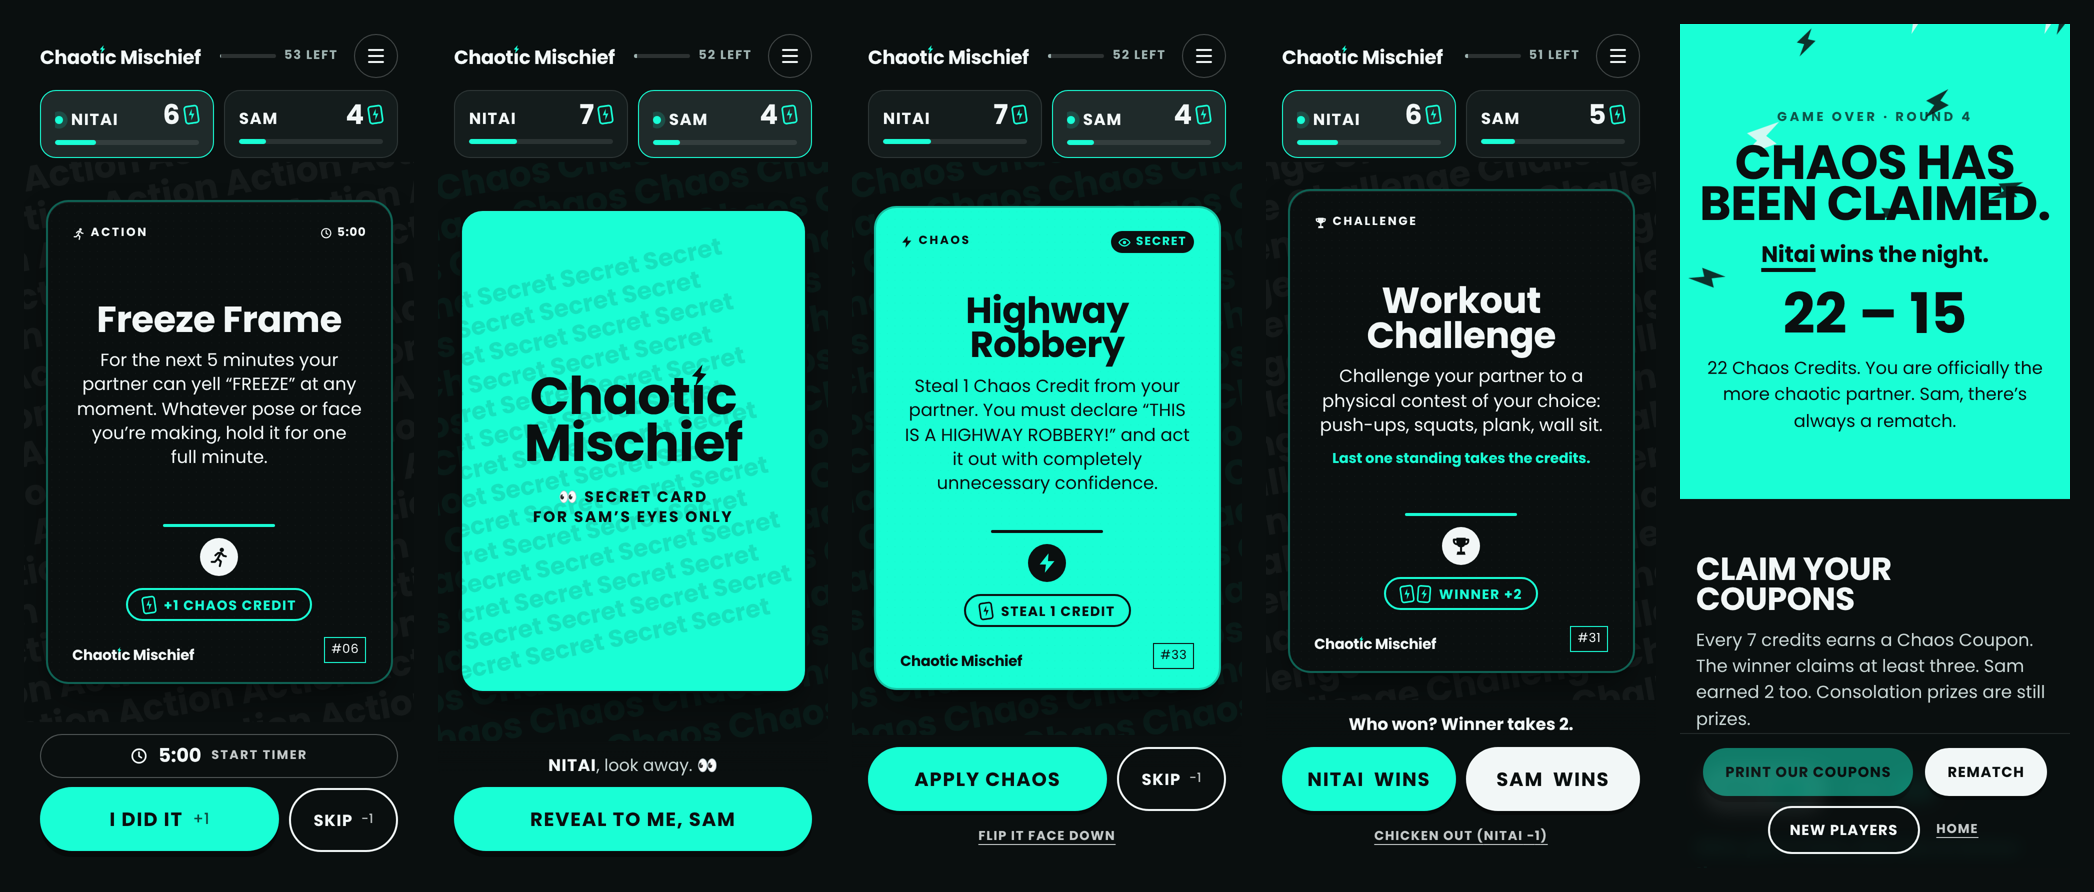
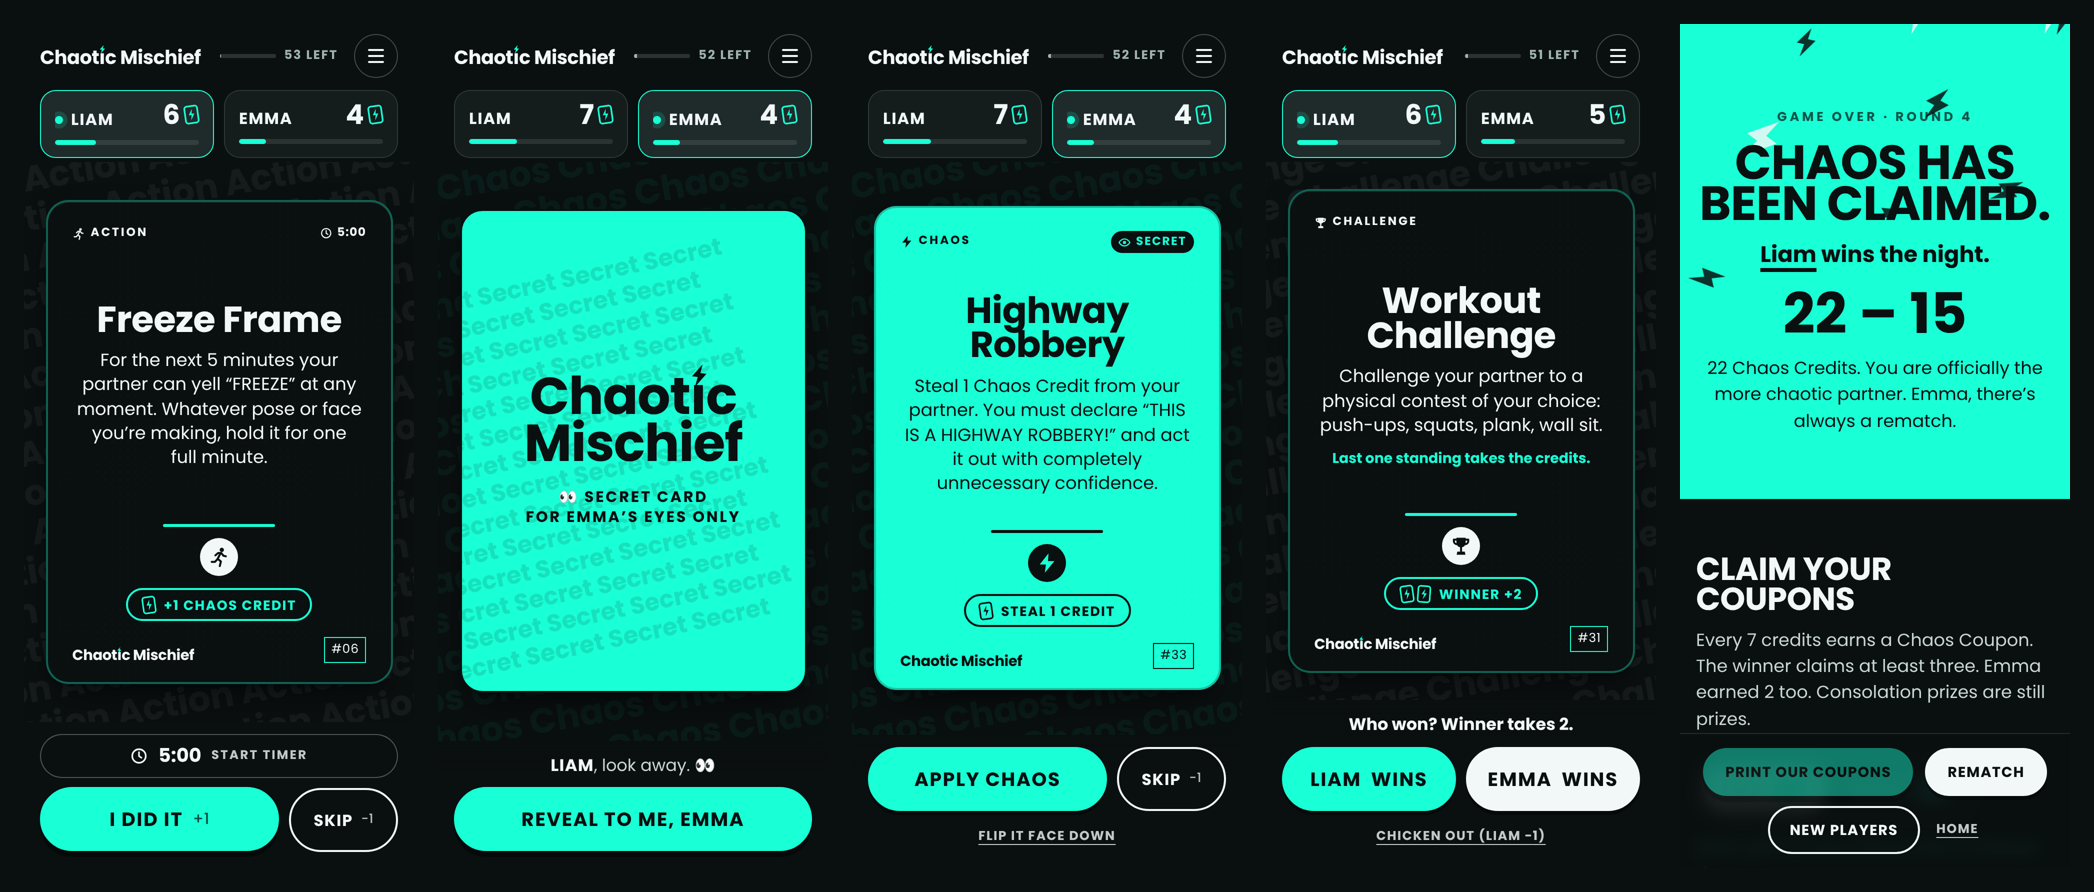
Use Liam and Emma as example names; add play link to README
Claude-Session: https://claude.ai/code/session_01GNPXdCBmPUjH62vrnXT8yM

diff --git a/src/game/rules.test.ts b/src/game/rules.test.ts
@@ -28,7 +28,7 @@ function seeded(seed = 42) {
 /** Start a game whose next draw is exactly `cardId`. */
 function gameWithTopCard(cardId: string, first: PlayerIndex = 0, scores: [number, number] = [0, 0]): GameState {
   const rest = PLAYABLE_IDS.filter((id) => id !== cardId);
-  const g = createGame(['Nitai', 'Sam'], [...rest, cardId], first);
+  const g = createGame(['Liam', 'Emma'], [...rest, cardId], first);
   g.players[0].score = scores[0];
   g.players[1].score = scores[1];
   return g;
@@ -67,9 +67,9 @@ describe('deck data', () => {
 
 describe('setup', () => {
   it('rejects empty and duplicate names', () => {
-    expect(validateNames('  ', 'Sam')).not.toBeNull();
-    expect(validateNames('sam', 'SAM ')).not.toBeNull();
-    expect(validateNames('Nitai', 'Sam')).toBeNull();
+    expect(validateNames('  ', 'Emma')).not.toBeNull();
+    expect(validateNames('emma', 'EMMA ')).not.toBeNull();
+    expect(validateNames('Liam', 'Emma')).toBeNull();
   });
 
   it('shuffles without losing or duplicating cards', () => {

diff --git a/src/pages/SetupPage.tsx b/src/pages/SetupPage.tsx
@@ -63,7 +63,7 @@ export function SetupPage({ onStart }: Props) {
                 value={names[i]}
                 onChange={(e) => setName(i, e.target.value)}
                 maxLength={MAX_NAME_LENGTH}
-                placeholder={i === 0 ? 'Nitai' : 'Your partner'}
+                placeholder={i === 0 ? 'Liam' : 'Emma'}
                 autoComplete="off"
                 autoCapitalize="words"
                 spellCheck={false}

diff --git a/README.md b/README.md
@@ -4,6 +4,8 @@
 
 Draw a card. Cause some problems. First to 21 Chaos Credits wins the night.
 
+**▶ Play it: [nweinberg97.github.io/Chaotic-Mischief](https://nweinberg97.github.io/Chaotic-Mischief/)**
+
 ![Landing page](docs/landing.png)
 
 ---
@@ -59,7 +61,7 @@ It is mobile-first, since most people will play on one phone passed back and for
 
 **First to 21 wins.** If one card pushes both players past 21, the higher score wins, and a tie goes to whoever played the card.
 
-**Secret cards.** When a Chaos, Side Quest or Mischief card is drawn, it lands face down with a *"For Sam's eyes only"* back. The partner looks away and the drawer taps **Reveal to me**. The drawer can flip it back down after reading.
+**Secret cards.** When a Chaos, Side Quest or Mischief card is drawn, it lands face down with a *"For Emma's eyes only"* back. The partner looks away and the drawer taps **Reveal to me**. The drawer can flip it back down after reading.
 
 **Challenge cards.** Both players compete, then tap who won. The winner takes the credits, plus any doubling or Chaos Pile that's in play.
 
